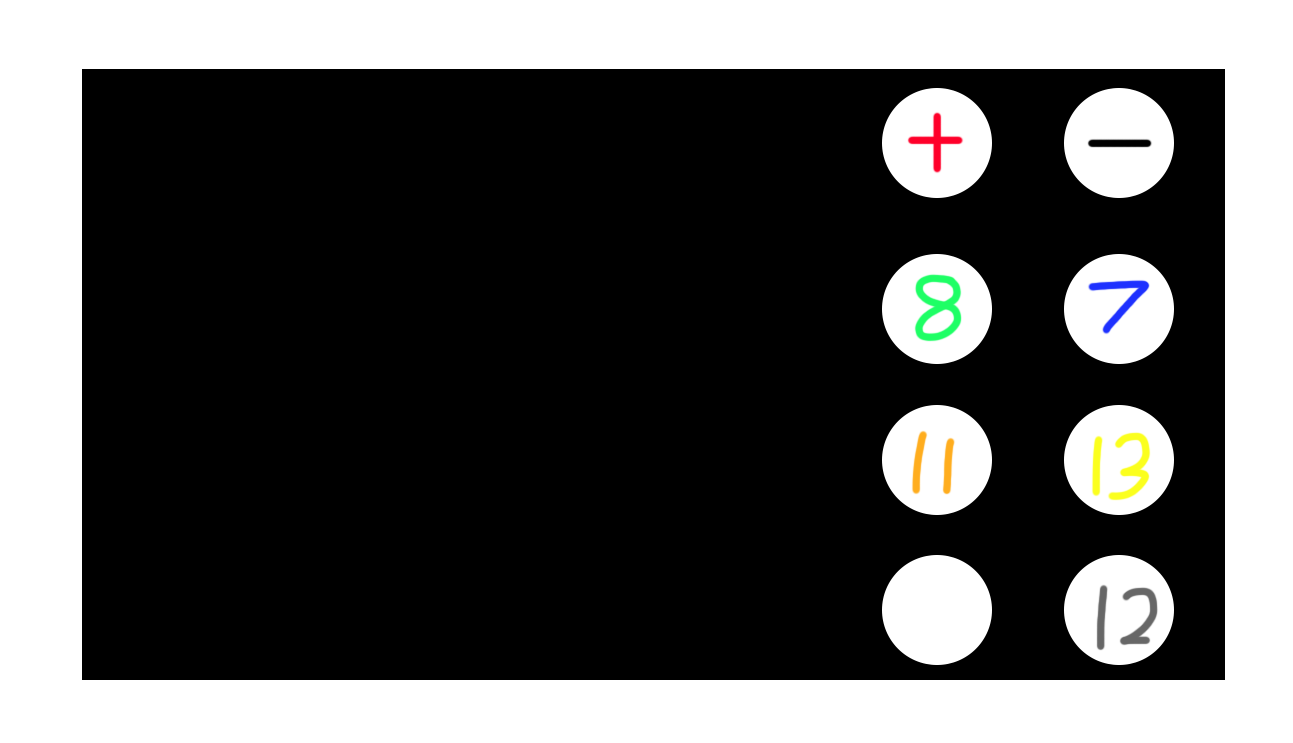
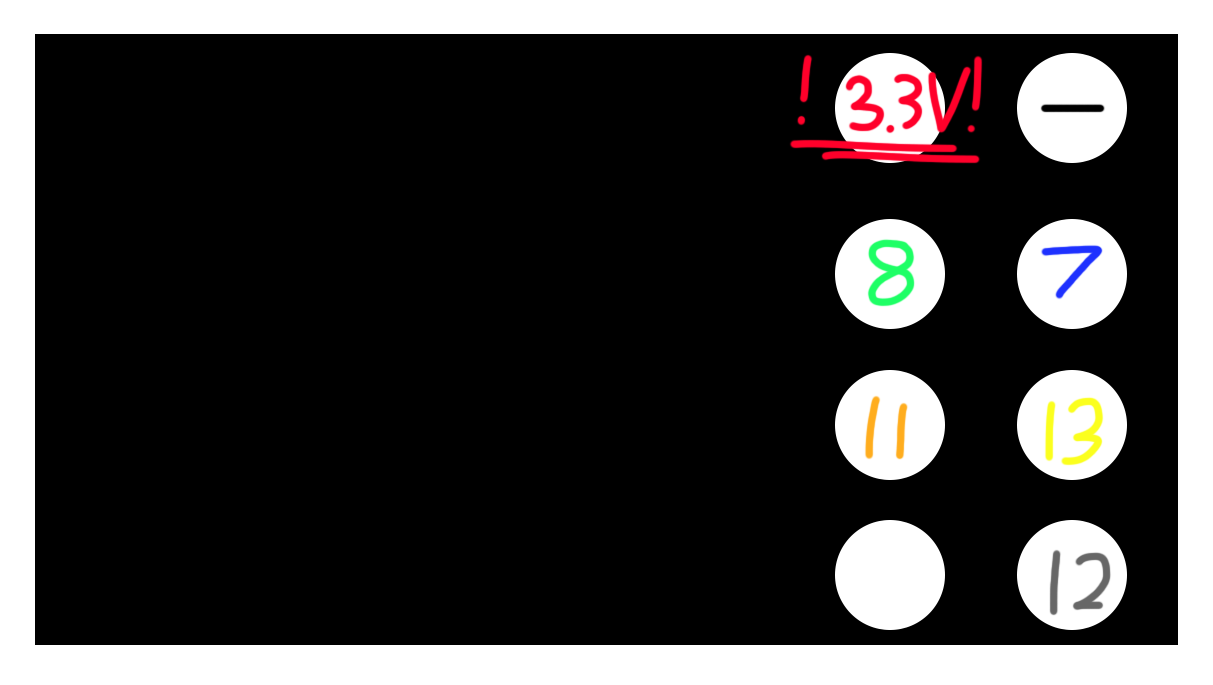
update for day 6

Changed region(s): [[0.0305, 0.0307, 0.9761, 0.9504], [0.6711, 0.3066, 0.7931, 0.4905], [0.6711, 0.5212, 0.7931, 0.7051]]

diff --git a/quests/nrf-chat.html b/quests/nrf-chat.html
@@ -1,0 +1,224 @@
+<!DOCTYPE html>
+<html lang="en">
+<head>
+  <meta charset="UTF-8" />
+  <title>Mission: NRF Chat Messenger</title>
+  <link rel="stylesheet" href="../style.css" />
+  <style>
+    figure.illustration {
+      margin: 16px auto;
+      text-align: left;
+    }
+    figure.illustration img {
+      max-width: 100%;
+      border-radius: 6px;
+      box-shadow: 0 2px 8px rgba(0,0,0,0.1);
+    }
+    figure.illustration figcaption {
+      font-size: 0.85rem;
+      color: #666;
+      margin-top: 4px;
+    }
+    pre {
+      background: #f4f4f4;
+      padding: 1em;
+      border-radius: 8px;
+      overflow-x: auto;
+    }
+  </style>
+</head>
+<body>
+  <a href="../quests.html" class="back-link">← Back to Quest Board</a>
+  <h1>Mission: NRF Chat Messenger</h1>
+
+  <p>
+    In this mission, you'll create a simple encrypted chat system between two Arduinos using the NRF24L01 module.
+    When a message is received, it will automatically decrypt and appear in the Serial Monitor.
+  </p>
+
+  <h2>🔧 Required Components</h2>
+  <ul>
+    <li>Arduino board</li>
+    <li>NRF24L01 modules</li>
+    <li>Jumper wires</li>
+    <li>Optional: passive buzzer for bonus</li>
+  </ul>
+
+  <h2>🔌 Wiring</h2>
+  <figure class="illustration">
+    <img src="../images/nrf.png" alt="nRF24L01 wiring diagram">
+    <figcaption>Example NRF24L01 wiring to Arduino</figcaption>
+  </figure>
+
+  <ul>
+    <li>VCC → 3.3V (⚠ <strong>Do not connect to 5V!</strong>)</li>
+    <li>GND → GND</li>
+    <li>CE → pin 7</li>
+    <li>CSN → pin 8</li>
+    <li>SCK → pin 13</li>
+    <li>MOSI → pin 11</li>
+    <li>MISO → pin 12</li>
+  </ul>
+
+  <h2>📜 Code</h2>
+  <p>Paste this code into each Arduino. Be sure to change the <code>USERNAME</code> string at the top for each device!</p>
+
+  <pre><code>#include &lt;SPI.h&gt;
+#include &lt;nRF24L01.h&gt;
+#include &lt;RF24.h&gt;
+
+#define CE_PIN  7
+#define CSN_PIN 8
+
+RF24 radio(CE_PIN, CSN_PIN);
+
+const byte  pipeAddress[6] = "CHAT1";
+const uint8_t MAX_LEN      = 32;
+const int    SHIFT         = 0;
+const String USERNAME      = "Username";  // Change this!
+
+bool expectUsername = false;
+bool inMessage      = false;
+
+void setup() {
+  Serial.begin(9600);
+  while (!Serial) {}
+  Serial.print(F("\nnRF24L01 Serial Chat – user: "));
+  Serial.println(USERNAME);
+  Serial.println(F("Type a message and press Enter.\n"));
+
+  if (!radio.begin()) {
+    Serial.println(F("Radio hardware not responding"));
+    while (1) { delay(1000); }
+  }
+
+  radio.setPALevel(RF24_PA_LOW);
+  radio.setDataRate(RF24_250KBPS);
+  radio.setRetries(5, 15);
+
+  radio.openWritingPipe(pipeAddress);
+  radio.openReadingPipe(1, pipeAddress);
+  radio.startListening();
+}
+
+void loop() {
+  if (radio.available())  handleIncomingChunk();
+  if (Serial.available()) handleOutgoingMessage();
+}
+
+String encrypt(const String &msg, int shift) {
+  String out;
+  for (char c : msg) {
+    if (c >= 'a' && c <= 'z')
+      out += char('a' + (c - 'a' + shift) % 26);
+    else if (c >= 'A' && c <= 'Z')
+      out += char('A' + (c - 'A' + shift) % 26);
+    else
+      out += c;
+  }
+  return out;
+}
+String decrypt(const String &msg, int shift) { return encrypt(msg, 26 - (shift % 26)); }
+
+void handleOutgoingMessage() {
+  String plain = Serial.readStringUntil('\n');
+  plain.trim();
+  if (plain.length() == 0) return;
+
+  String cipher = encrypt(plain, SHIFT);
+
+  radio.stopListening();
+  radio.write("\n", 2);
+  radio.startListening();
+  delay(5);
+
+  String userTag = USERNAME + ":";
+  for (unsigned int i = 0; i < userTag.length(); i += MAX_LEN) {
+    String chunk = userTag.substring(i, i + MAX_LEN);
+    radio.stopListening();
+    radio.write(chunk.c_str(), chunk.length() + 1);
+    radio.startListening();
+    delay(5);
+  }
+
+  for (unsigned int i = 0; i < cipher.length(); i += MAX_LEN) {
+    String chunk = cipher.substring(i, i + MAX_LEN);
+    radio.stopListening();
+    radio.write(chunk.c_str(), chunk.length() + 1);
+    radio.startListening();
+    delay(10);
+  }
+
+  Serial.print(F("\nYou → "));
+  Serial.println(plain);
+}
+
+void handleIncomingChunk() {
+  char buf[MAX_LEN + 1] = {0};
+  radio.read(&buf, sizeof(buf));
+  String chunk = String(buf);
+
+  if (chunk == "\n") {
+    Serial.println();
+    expectUsername = true;
+    inMessage = false;
+    return;
+  }
+
+  if (expectUsername) {
+    Serial.print(chunk); Serial.print(' ');
+    expectUsername = false;
+    inMessage = true;
+    return;
+  }
+
+  if (inMessage) {
+    Serial.print(decrypt(chunk, SHIFT));
+  }
+}
+</code></pre>
+
+  <h2>🎯 Goal</h2>
+  <p>
+    Set up Arduinos to wirelessly send encrypted messages to each other via Serial Monitor.
+    Once messages are decrypted and displayed correctly, you earn <strong>+30 points!</strong>
+  </p>
+
+  <h2>💥 Bonus</h2>
+  <p>
+    Wire up a <strong>passive buzzer</strong> to <code>pin 3</code> and have it beep when a new message is received.
+    You'll need to call <code>tone(3, 880, 200);</code> inside <code>handleIncomingChunk()</code>. This earns you <strong>+10 bonus points</strong>!
+  </p>
+
+  <hr />
+  <h2>Completion</h2>
+  <h3>✅ Completed + Bonus</h3>
+  <ul id="completed-bonus-list"></ul>
+  <h3>🟩 Completed</h3>
+  <ul id="completed-list"></ul>
+  <h3>⏳ Not yet completed</h3>
+  <ul id="pending-list"></ul>
+
+  <script src="../data.js"></script>
+  <script>
+    const quest = quests.find(q => q.id === "nrf-chat");
+    const baseDone = new Set(quest.completedBy);
+    const bonusDone = new Set(quest.completedBonusBy || []);
+    const bonusUL = document.getElementById("completed-bonus-list");
+    const baseUL = document.getElementById("completed-list");
+    const pendingUL = document.getElementById("pending-list");
+
+    students.forEach(s => {
+      const li = document.createElement("li");
+      li.textContent = s.name;
+      if (bonusDone.has(s.id)) {
+        bonusUL.appendChild(li);
+      } else if (baseDone.has(s.id)) {
+        baseUL.appendChild(li);
+      } else {
+        pendingUL.appendChild(li);
+      }
+    });
+  </script>
+</body>
+</html>

diff --git a/quests/website-writing.html b/quests/website-writing.html
@@ -1,0 +1,72 @@
+<!DOCTYPE html>
+<html lang="en">
+<head>
+  <meta charset="UTF-8" />
+  <title>Website Writing Warm-Up</title>
+  <link rel="stylesheet" href="../style.css" />
+</head>
+<body>
+  <a href="../quests.html" class="back-link">← Back to Quest Board</a>
+
+  <h1>Website Writing Warm-Up ✍</h1>
+
+  <p>
+    Before we jump into designing your website, let’s write the content that will go on it!
+    In this quest, you’ll brainstorm and type your answers in <strong>Notepad</strong> and save the file for later.
+  </p>
+
+  <h2>📝 What You’ll Need</h2>
+  <ul>
+    <li>Open <strong>Notepad</strong> on your computer</li>
+    <li>Answer the following prompts in full sentences</li>
+    <li>Save your file as <code>website_text.txt</code></li>
+  </ul>
+
+  <h2>✏ What to Write About</h2>
+  <ol>
+    <li><strong>What is an Arduino?</strong> Explain it in your own words.</li>
+    <li><strong>Describe an Arduino project</strong> you really enjoyed this summer.</li>
+    <li><strong>What is your favorite Arduino part?</strong> (ex: buzzer, LED, LCD, potentiometer) and why?</li>
+    <li><strong>How did you teach an AI using machine learning?</strong> What did it learn to do?</li>
+    <li><strong>Why is encryption and decryption important?</strong></li>
+    <li><strong>Show an example of Caesar Cipher:</strong> Write a sentence, encrypt it, and then decrypt it.</li>
+    <li><strong>What’s one part of Lolo Uila you really enjoyed?</strong> What made it fun?</li>
+    <li><strong>What’s one part of Lolo Uila that was difficult?</strong> How did you deal with it?</li>
+    <li><strong>What was your favorite activity during Rez-life?</strong></li>
+    <li><strong>How did you feel about this year’s Summer Institute?</strong> Would you like to return next year?</li>
+  </ol>
+
+  <p><strong>✅ Save your writing!</strong> This will become the content for your personal website.</p>
+
+  <h2>🎯 Goal</h2>
+  <p>
+    By the end of this quest, you should have a saved Notepad file that includes full answers for all 10 questions above. 
+    This will make building your site much easier in the next quest!
+  </p>
+
+  <hr />
+
+  <h2>Who’s already completed this quest?</h2>
+
+  <h3>✅ Completed</h3>
+  <ul id="completed-list"></ul>
+
+  <h3>⏳ Not yet completed</h3>
+  <ul id="pending-list"></ul>
+
+  <script src="../data.js"></script>
+  <script>
+    const quest = quests.find(q => q.id === "website-writing");
+    const finished = new Set(quest.completedBy);
+
+    const doneUL = document.getElementById("completed-list");
+    const todoUL = document.getElementById("pending-list");
+
+    students.forEach(s => {
+      const li = document.createElement("li");
+      li.textContent = s.name;
+      (finished.has(s.id) ? doneUL : todoUL).appendChild(li);
+    });
+  </script>
+</body>
+</html>

diff --git a/quests/mood-meter.html b/quests/mood-meter.html
@@ -2,7 +2,7 @@
 <html lang="en">
 <head>
   <meta charset="UTF-8" />
-  <title>Side Quest: Mood Meter</title>
+  <title>Side Quest: Mood Meter (Serial Version)</title>
   <link rel="stylesheet" href="../style.css" />
 </head>
 <body>
@@ -10,50 +10,34 @@
 
   <h1>Side Quest: Mood Meter</h1>
 
-  <p>In this mini quest, you’ll use a potentiometer to “read your mood” and display it on the LCD screen. Turning the knob will change what message appears!</p>
+  <p>
+    In this version of the quest, you’ll use a potentiometer to “read your mood” and display it in the Serial Monitor. 
+    Turning the knob changes the message that appears in the Serial Monitor!
+  </p>
 
   <h2>Required Components</h2>
   <ul>
     <li>Arduino board</li>
     <li>Potentiometer</li>
-    <li>LCD Display (with 6 pins: RS, E, D4–D7)</li>
     <li>Breadboard & jumper wires</li>
   </ul>
 
   <h2>Wiring Tips</h2>
-  <p>You can wire the potentiometer like before (center to A0, sides to 5V and GND). Your LCD should be wired as shown in your previous LCD quest (or however you prefer — just match the pin numbers in code).</p>
+  <p>Connect the potentiometer like this:</p>
+  <ul>
+    <li>Middle pin → A0</li>
+    <li>One side → 5V</li>
+    <li>Other side → GND</li>
+  </ul>
 
-  <h2>Example Code Structure</h2>
-  <p>Start with something like:</p>
 
-  <pre><code>
-#include &lt;LiquidCrystal.h&gt;
 
-LiquidCrystal lcd(7, 8, A0, A1, A2, A3); // RS, E, D4–D7
-int moodPin = A5;
-
-void setup() {
-  lcd.begin(16, 2);
-}
-
-void loop() {
-  int value = analogRead(moodPin);
-  lcd.clear();
-
-  if (value &lt; 300) {
-    lcd.print("Angry");
-  } else if (value &lt; 700) {
-    lcd.print("Meh");
-  } else {
-    lcd.print("Happy");
-  }
-
-  delay(500);
-}
-  </code></pre>
 
   <h2>🎯 Goal</h2>
-  <p>Turn the knob and show how the LCD updates the mood. <strong>You must add at least one more mood!</strong> Have at least 4 moods working to earn <strong>+5 points</strong> for completing this quest.</p>
+  <p>
+    Turn the knob and watch the Serial Monitor update your mood. 
+    <strong>Make sure you include at least 4 distinct moods</strong> to earn <strong>+5 points</strong> for completing this quest.
+  </p>
 
   <hr />
 

diff --git a/data.js b/data.js
@@ -400,6 +400,24 @@ const students = [
   type: "story",
   completedBy: ["elias", "lehua"]
 },
+{
+  id: "nrf-chat",
+  title: "NRF Chat Messenger",
+  points: 30,
+  bonus: 10,
+  day: 6,
+  type: "story",
+  completedBy: [],
+  completedBonusBy: []
+},
+{
+  id: "website-writing",
+  title: "Website Writing Warm-Up",
+  points: 10,
+  day: 6,
+  type: "story",
+  completedBy: [],
+},
 
     
     
